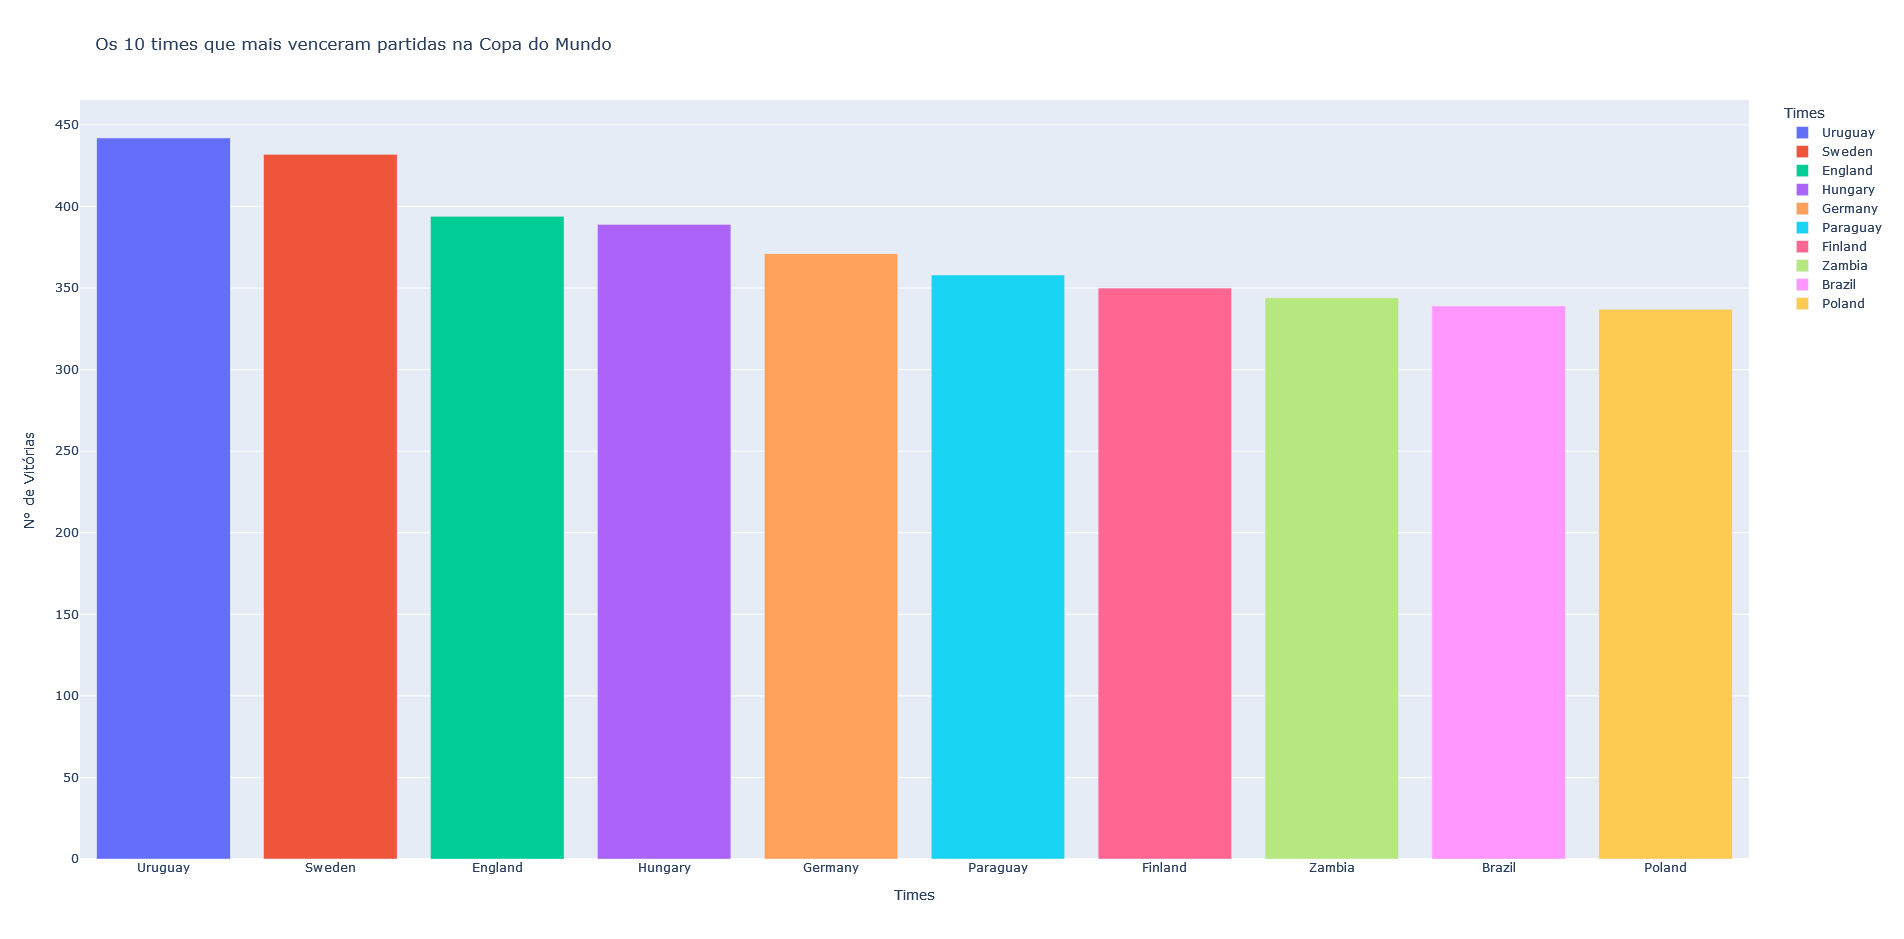
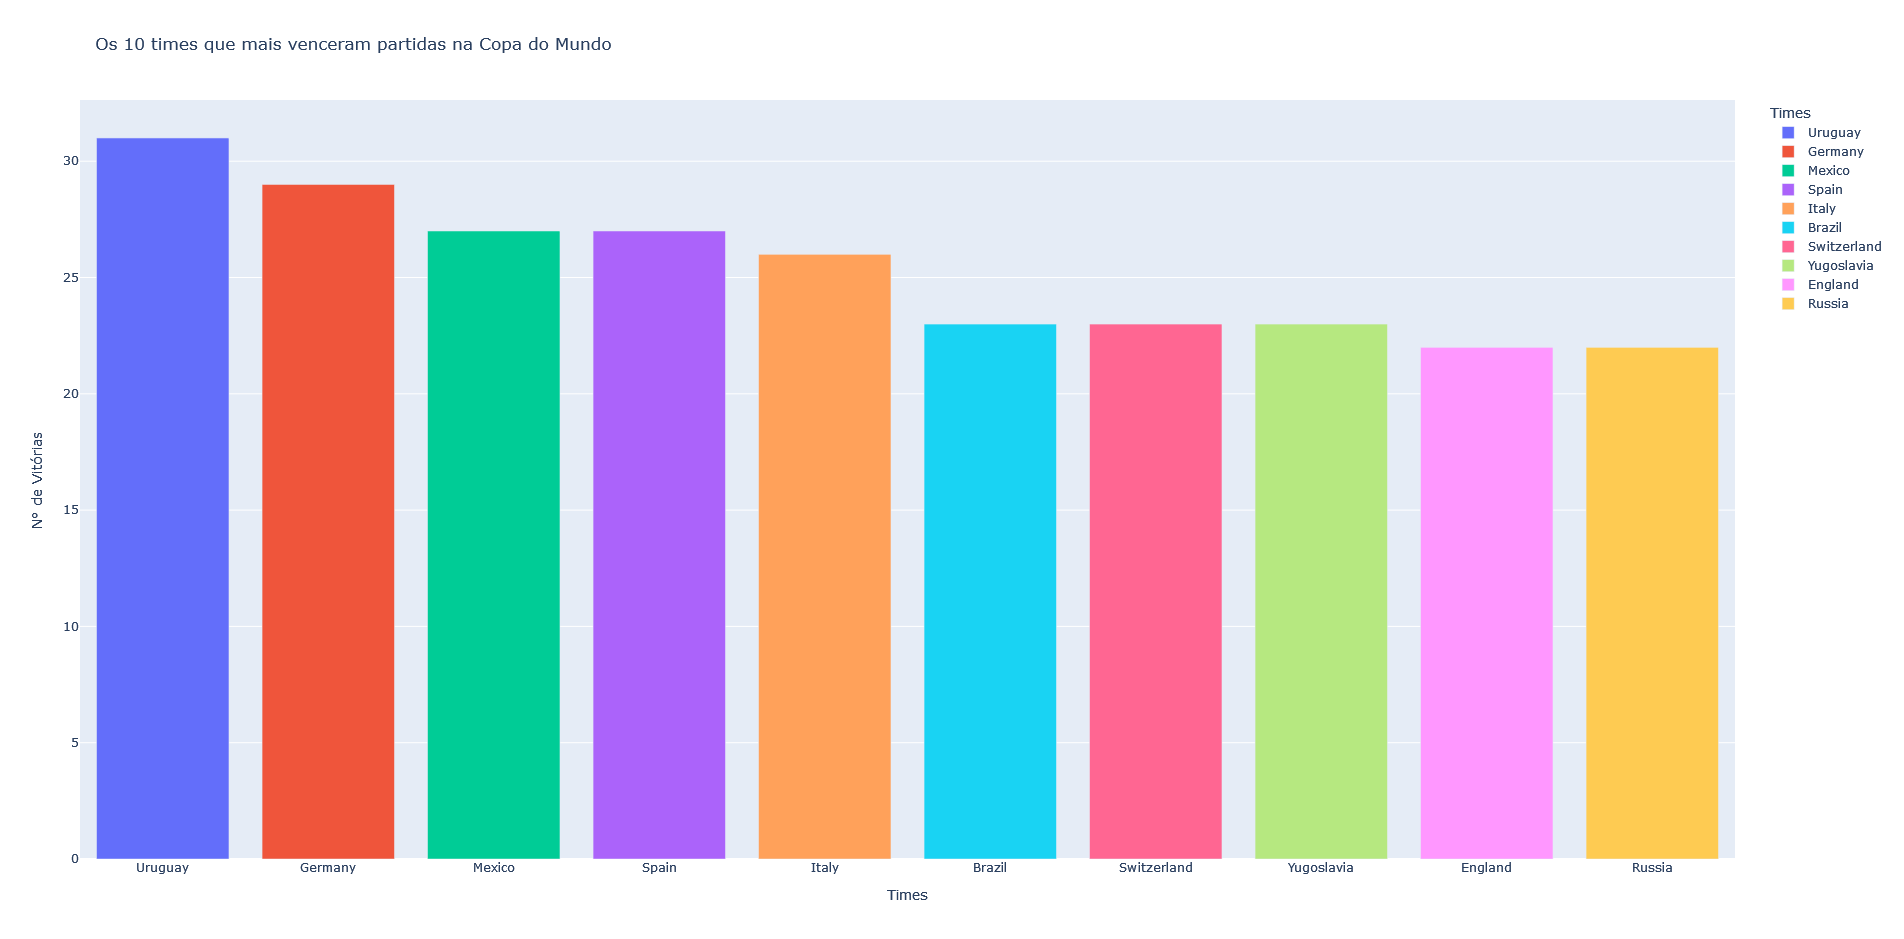
Correção de logica dos times mais dominantes da Copa do Mundo

diff --git a/codes/10_times_mais_fortes.html b/codes/10_times_mais_fortes.html
@@ -1,0 +1,7 @@
+<html>
+<head><meta charset="utf-8" /></head>
+<body>
+    <div>                        <script type="text/javascript">window.PlotlyConfig = {MathJaxConfig: 'local'};</script>
+        <script charset="utf-8" src="https://cdn.plot.ly/plotly-2.32.0.min.js"></script>                <div id="505a59f1-7d45-4ac3-945b-e22741cb9b69" class="plotly-graph-div" style="height:100%; width:100%;"></div>            <script type="text/javascript">                                    window.PLOTLYENV=window.PLOTLYENV || {};                                    if (document.getElementById("505a59f1-7d45-4ac3-945b-e22741cb9b69")) {                    Plotly.newPlot(                        "505a59f1-7d45-4ac3-945b-e22741cb9b69",                        [{"alignmentgroup":"True","hovertemplate":"Times=%{x}\u003cbr\u003eN\u00b0 de Vit\u00f3rias=%{y}\u003cextra\u003e\u003c\u002fextra\u003e","legendgroup":"Uruguay","marker":{"color":"#636efa","pattern":{"shape":""}},"name":"Uruguay","offsetgroup":"Uruguay","orientation":"v","showlegend":true,"textposition":"auto","x":["Uruguay"],"xaxis":"x","y":[31],"yaxis":"y","type":"bar"},{"alignmentgroup":"True","hovertemplate":"Times=%{x}\u003cbr\u003eN\u00b0 de Vit\u00f3rias=%{y}\u003cextra\u003e\u003c\u002fextra\u003e","legendgroup":"Germany","marker":{"color":"#EF553B","pattern":{"shape":""}},"name":"Germany","offsetgroup":"Germany","orientation":"v","showlegend":true,"textposition":"auto","x":["Germany"],"xaxis":"x","y":[29],"yaxis":"y","type":"bar"},{"alignmentgroup":"True","hovertemplate":"Times=%{x}\u003cbr\u003eN\u00b0 de Vit\u00f3rias=%{y}\u003cextra\u003e\u003c\u002fextra\u003e","legendgroup":"Mexico","marker":{"color":"#00cc96","pattern":{"shape":""}},"name":"Mexico","offsetgroup":"Mexico","orientation":"v","showlegend":true,"textposition":"auto","x":["Mexico"],"xaxis":"x","y":[27],"yaxis":"y","type":"bar"},{"alignmentgroup":"True","hovertemplate":"Times=%{x}\u003cbr\u003eN\u00b0 de Vit\u00f3rias=%{y}\u003cextra\u003e\u003c\u002fextra\u003e","legendgroup":"Spain","marker":{"color":"#ab63fa","pattern":{"shape":""}},"name":"Spain","offsetgroup":"Spain","orientation":"v","showlegend":true,"textposition":"auto","x":["Spain"],"xaxis":"x","y":[27],"yaxis":"y","type":"bar"},{"alignmentgroup":"True","hovertemplate":"Times=%{x}\u003cbr\u003eN\u00b0 de Vit\u00f3rias=%{y}\u003cextra\u003e\u003c\u002fextra\u003e","legendgroup":"Italy","marker":{"color":"#FFA15A","pattern":{"shape":""}},"name":"Italy","offsetgroup":"Italy","orientation":"v","showlegend":true,"textposition":"auto","x":["Italy"],"xaxis":"x","y":[26],"yaxis":"y","type":"bar"},{"alignmentgroup":"True","hovertemplate":"Times=%{x}\u003cbr\u003eN\u00b0 de Vit\u00f3rias=%{y}\u003cextra\u003e\u003c\u002fextra\u003e","legendgroup":"Brazil","marker":{"color":"#19d3f3","pattern":{"shape":""}},"name":"Brazil","offsetgroup":"Brazil","orientation":"v","showlegend":true,"textposition":"auto","x":["Brazil"],"xaxis":"x","y":[23],"yaxis":"y","type":"bar"},{"alignmentgroup":"True","hovertemplate":"Times=%{x}\u003cbr\u003eN\u00b0 de Vit\u00f3rias=%{y}\u003cextra\u003e\u003c\u002fextra\u003e","legendgroup":"Switzerland","marker":{"color":"#FF6692","pattern":{"shape":""}},"name":"Switzerland","offsetgroup":"Switzerland","orientation":"v","showlegend":true,"textposition":"auto","x":["Switzerland"],"xaxis":"x","y":[23],"yaxis":"y","type":"bar"},{"alignmentgroup":"True","hovertemplate":"Times=%{x}\u003cbr\u003eN\u00b0 de Vit\u00f3rias=%{y}\u003cextra\u003e\u003c\u002fextra\u003e","legendgroup":"Yugoslavia","marker":{"color":"#B6E880","pattern":{"shape":""}},"name":"Yugoslavia","offsetgroup":"Yugoslavia","orientation":"v","showlegend":true,"textposition":"auto","x":["Yugoslavia"],"xaxis":"x","y":[23],"yaxis":"y","type":"bar"},{"alignmentgroup":"True","hovertemplate":"Times=%{x}\u003cbr\u003eN\u00b0 de Vit\u00f3rias=%{y}\u003cextra\u003e\u003c\u002fextra\u003e","legendgroup":"England","marker":{"color":"#FF97FF","pattern":{"shape":""}},"name":"England","offsetgroup":"England","orientation":"v","showlegend":true,"textposition":"auto","x":["England"],"xaxis":"x","y":[22],"yaxis":"y","type":"bar"},{"alignmentgroup":"True","hovertemplate":"Times=%{x}\u003cbr\u003eN\u00b0 de Vit\u00f3rias=%{y}\u003cextra\u003e\u003c\u002fextra\u003e","legendgroup":"Russia","marker":{"color":"#FECB52","pattern":{"shape":""}},"name":"Russia","offsetgroup":"Russia","orientation":"v","showlegend":true,"textposition":"auto","x":["Russia"],"xaxis":"x","y":[22],"yaxis":"y","type":"bar"}],                        {"template":{"data":{"histogram2dcontour":[{"type":"histogram2dcontour","colorbar":{"outlinewidth":0,"ticks":""},"colorscale":[[0.0,"#0d0887"],[0.1111111111111111,"#46039f"],[0.2222222222222222,"#7201a8"],[0.3333333333333333,"#9c179e"],[0.4444444444444444,"#bd3786"],[0.5555555555555556,"#d8576b"],[0.6666666666666666,"#ed7953"],[0.7777777777777778,"#fb9f3a"],[0.8888888888888888,"#fdca26"],[1.0,"#f0f921"]]}],"choropleth":[{"type":"choropleth","colorbar":{"outlinewidth":0,"ticks":""}}],"histogram2d":[{"type":"histogram2d","colorbar":{"outlinewidth":0,"ticks":""},"colorscale":[[0.0,"#0d0887"],[0.1111111111111111,"#46039f"],[0.2222222222222222,"#7201a8"],[0.3333333333333333,"#9c179e"],[0.4444444444444444,"#bd3786"],[0.5555555555555556,"#d8576b"],[0.6666666666666666,"#ed7953"],[0.7777777777777778,"#fb9f3a"],[0.8888888888888888,"#fdca26"],[1.0,"#f0f921"]]}],"heatmap":[{"type":"heatmap","colorbar":{"outlinewidth":0,"ticks":""},"colorscale":[[0.0,"#0d0887"],[0.1111111111111111,"#46039f"],[0.2222222222222222,"#7201a8"],[0.3333333333333333,"#9c179e"],[0.4444444444444444,"#bd3786"],[0.5555555555555556,"#d8576b"],[0.6666666666666666,"#ed7953"],[0.7777777777777778,"#fb9f3a"],[0.8888888888888888,"#fdca26"],[1.0,"#f0f921"]]}],"heatmapgl":[{"type":"heatmapgl","colorbar":{"outlinewidth":0,"ticks":""},"colorscale":[[0.0,"#0d0887"],[0.1111111111111111,"#46039f"],[0.2222222222222222,"#7201a8"],[0.3333333333333333,"#9c179e"],[0.4444444444444444,"#bd3786"],[0.5555555555555556,"#d8576b"],[0.6666666666666666,"#ed7953"],[0.7777777777777778,"#fb9f3a"],[0.8888888888888888,"#fdca26"],[1.0,"#f0f921"]]}],"contourcarpet":[{"type":"contourcarpet","colorbar":{"outlinewidth":0,"ticks":""}}],"contour":[{"type":"contour","colorbar":{"outlinewidth":0,"ticks":""},"colorscale":[[0.0,"#0d0887"],[0.1111111111111111,"#46039f"],[0.2222222222222222,"#7201a8"],[0.3333333333333333,"#9c179e"],[0.4444444444444444,"#bd3786"],[0.5555555555555556,"#d8576b"],[0.6666666666666666,"#ed7953"],[0.7777777777777778,"#fb9f3a"],[0.8888888888888888,"#fdca26"],[1.0,"#f0f921"]]}],"surface":[{"type":"surface","colorbar":{"outlinewidth":0,"ticks":""},"colorscale":[[0.0,"#0d0887"],[0.1111111111111111,"#46039f"],[0.2222222222222222,"#7201a8"],[0.3333333333333333,"#9c179e"],[0.4444444444444444,"#bd3786"],[0.5555555555555556,"#d8576b"],[0.6666666666666666,"#ed7953"],[0.7777777777777778,"#fb9f3a"],[0.8888888888888888,"#fdca26"],[1.0,"#f0f921"]]}],"mesh3d":[{"type":"mesh3d","colorbar":{"outlinewidth":0,"ticks":""}}],"scatter":[{"fillpattern":{"fillmode":"overlay","size":10,"solidity":0.2},"type":"scatter"}],"parcoords":[{"type":"parcoords","line":{"colorbar":{"outlinewidth":0,"ticks":""}}}],"scatterpolargl":[{"type":"scatterpolargl","marker":{"colorbar":{"outlinewidth":0,"ticks":""}}}],"bar":[{"error_x":{"color":"#2a3f5f"},"error_y":{"color":"#2a3f5f"},"marker":{"line":{"color":"#E5ECF6","width":0.5},"pattern":{"fillmode":"overlay","size":10,"solidity":0.2}},"type":"bar"}],"scattergeo":[{"type":"scattergeo","marker":{"colorbar":{"outlinewidth":0,"ticks":""}}}],"scatterpolar":[{"type":"scatterpolar","marker":{"colorbar":{"outlinewidth":0,"ticks":""}}}],"histogram":[{"marker":{"pattern":{"fillmode":"overlay","size":10,"solidity":0.2}},"type":"histogram"}],"scattergl":[{"type":"scattergl","marker":{"colorbar":{"outlinewidth":0,"ticks":""}}}],"scatter3d":[{"type":"scatter3d","line":{"colorbar":{"outlinewidth":0,"ticks":""}},"marker":{"colorbar":{"outlinewidth":0,"ticks":""}}}],"scattermapbox":[{"type":"scattermapbox","marker":{"colorbar":{"outlinewidth":0,"ticks":""}}}],"scatterternary":[{"type":"scatterternary","marker":{"colorbar":{"outlinewidth":0,"ticks":""}}}],"scattercarpet":[{"type":"scattercarpet","marker":{"colorbar":{"outlinewidth":0,"ticks":""}}}],"carpet":[{"aaxis":{"endlinecolor":"#2a3f5f","gridcolor":"white","linecolor":"white","minorgridcolor":"white","startlinecolor":"#2a3f5f"},"baxis":{"endlinecolor":"#2a3f5f","gridcolor":"white","linecolor":"white","minorgridcolor":"white","startlinecolor":"#2a3f5f"},"type":"carpet"}],"table":[{"cells":{"fill":{"color":"#EBF0F8"},"line":{"color":"white"}},"header":{"fill":{"color":"#C8D4E3"},"line":{"color":"white"}},"type":"table"}],"barpolar":[{"marker":{"line":{"color":"#E5ECF6","width":0.5},"pattern":{"fillmode":"overlay","size":10,"solidity":0.2}},"type":"barpolar"}],"pie":[{"automargin":true,"type":"pie"}]},"layout":{"autotypenumbers":"strict","colorway":["#636efa","#EF553B","#00cc96","#ab63fa","#FFA15A","#19d3f3","#FF6692","#B6E880","#FF97FF","#FECB52"],"font":{"color":"#2a3f5f"},"hovermode":"closest","hoverlabel":{"align":"left"},"paper_bgcolor":"white","plot_bgcolor":"#E5ECF6","polar":{"bgcolor":"#E5ECF6","angularaxis":{"gridcolor":"white","linecolor":"white","ticks":""},"radialaxis":{"gridcolor":"white","linecolor":"white","ticks":""}},"ternary":{"bgcolor":"#E5ECF6","aaxis":{"gridcolor":"white","linecolor":"white","ticks":""},"baxis":{"gridcolor":"white","linecolor":"white","ticks":""},"caxis":{"gridcolor":"white","linecolor":"white","ticks":""}},"coloraxis":{"colorbar":{"outlinewidth":0,"ticks":""}},"colorscale":{"sequential":[[0.0,"#0d0887"],[0.1111111111111111,"#46039f"],[0.2222222222222222,"#7201a8"],[0.3333333333333333,"#9c179e"],[0.4444444444444444,"#bd3786"],[0.5555555555555556,"#d8576b"],[0.6666666666666666,"#ed7953"],[0.7777777777777778,"#fb9f3a"],[0.8888888888888888,"#fdca26"],[1.0,"#f0f921"]],"sequentialminus":[[0.0,"#0d0887"],[0.1111111111111111,"#46039f"],[0.2222222222222222,"#7201a8"],[0.3333333333333333,"#9c179e"],[0.4444444444444444,"#bd3786"],[0.5555555555555556,"#d8576b"],[0.6666666666666666,"#ed7953"],[0.7777777777777778,"#fb9f3a"],[0.8888888888888888,"#fdca26"],[1.0,"#f0f921"]],"diverging":[[0,"#8e0152"],[0.1,"#c51b7d"],[0.2,"#de77ae"],[0.3,"#f1b6da"],[0.4,"#fde0ef"],[0.5,"#f7f7f7"],[0.6,"#e6f5d0"],[0.7,"#b8e186"],[0.8,"#7fbc41"],[0.9,"#4d9221"],[1,"#276419"]]},"xaxis":{"gridcolor":"white","linecolor":"white","ticks":"","title":{"standoff":15},"zerolinecolor":"white","automargin":true,"zerolinewidth":2},"yaxis":{"gridcolor":"white","linecolor":"white","ticks":"","title":{"standoff":15},"zerolinecolor":"white","automargin":true,"zerolinewidth":2},"scene":{"xaxis":{"backgroundcolor":"#E5ECF6","gridcolor":"white","linecolor":"white","showbackground":true,"ticks":"","zerolinecolor":"white","gridwidth":2},"yaxis":{"backgroundcolor":"#E5ECF6","gridcolor":"white","linecolor":"white","showbackground":true,"ticks":"","zerolinecolor":"white","gridwidth":2},"zaxis":{"backgroundcolor":"#E5ECF6","gridcolor":"white","linecolor":"white","showbackground":true,"ticks":"","zerolinecolor":"white","gridwidth":2}},"shapedefaults":{"line":{"color":"#2a3f5f"}},"annotationdefaults":{"arrowcolor":"#2a3f5f","arrowhead":0,"arrowwidth":1},"geo":{"bgcolor":"white","landcolor":"#E5ECF6","subunitcolor":"white","showland":true,"showlakes":true,"lakecolor":"white"},"title":{"x":0.05},"mapbox":{"style":"light"}}},"xaxis":{"anchor":"y","domain":[0.0,1.0],"title":{"text":"Times"},"categoryorder":"array","categoryarray":["Uruguay","Germany","Mexico","Spain","Italy","Brazil","Switzerland","Yugoslavia","England","Russia"]},"yaxis":{"anchor":"x","domain":[0.0,1.0],"title":{"text":"N\u00b0 de Vit\u00f3rias"}},"legend":{"title":{"text":"Times"},"tracegroupgap":0},"title":{"text":"Os 10 times que mais venceram partidas na Copa do Mundo"},"barmode":"relative"},                        {"responsive": true}                    )                };                            </script>        </div>
+</body>
+</html>

diff --git a/codes/times_dominantes.py b/codes/times_dominantes.py
@@ -37,9 +37,9 @@ df_matches
 condicao = df_matches['tipo_torneio'] == 'Copa do Mundo'
 df_matches_copadomundo = df_matches[condicao]
 
-
+df_matches_copadomundo
 # %%
-df_qtd_win_times = df_matches[df_matches['time_ganhador'] != 'Empate'].groupby(['time_ganhador']).agg({
+df_qtd_win_times = df_matches_copadomundo[df_matches_copadomundo['time_ganhador'] != 'Empate'].groupby(['time_ganhador']).agg({
 
     'date': 'count',
 
@@ -47,6 +47,7 @@ df_qtd_win_times = df_matches[df_matches['time_ganhador'] != 'Empate'].groupby([
 
 df_qtd_win_times.sort_values(by='date', ascending=False, inplace=True)
 df_top10_times_win = df_qtd_win_times.head(10)
+df_top10_times_win
 # %%
 import plotly.express as px
 
@@ -64,3 +65,8 @@ fig = px.bar(
                     'date': 'N° de Vitórias'
                     })
 fig.show()
+# %%
+html_string = fig.to_html(full_html=True, include_plotlyjs='cdn')
+with open("10_times_mais_fortes", "w") as f:
+    f.write(html_string)
+# %%

diff --git a/codes/times_vitoriosos_torneios.py b/codes/times_vitoriosos_torneios.py
@@ -1,0 +1,32 @@
+# %%
+
+import pandas as pd
+import plotly.express as px
+# %%
+
+df_matchs = pd.read_csv('../data/Match_Results.csv', sep=',')
+df_matchs
+# %%
+def tipo_vitoria(row):
+    if row['home_score'] > row['away_score']:  # Vitória do time da casa
+        return row['away_team']
+        
+    elif row['home_score'] < row['away_score']:  # Vitória do time visitante
+        return row['away_team']
+    else:
+        return 'Empate'
+    
+df_matchs['time_ganhador'] = df_matchs.apply(tipo_vitoria, axis=1)
+
+df_matchs
+# %%
+
+df_qtd_win_team_tournament = (df_matchs[df_matchs['time_ganhador'] != 'Empate'].groupby(['tournament', 'time_ganhador'])
+                .agg(
+                    qtd_win=('date', 'count')
+                    )
+                .reset_index())
+
+df_10_qtd_win_team_tournament = df_qtd_win_team_tournament.sort_values(by='qtd_win', ascending=False).head(10)
+df_10_qtd_win_team_tournament
+# %%
